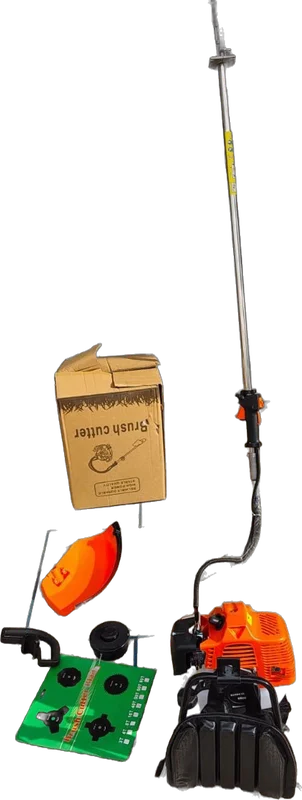
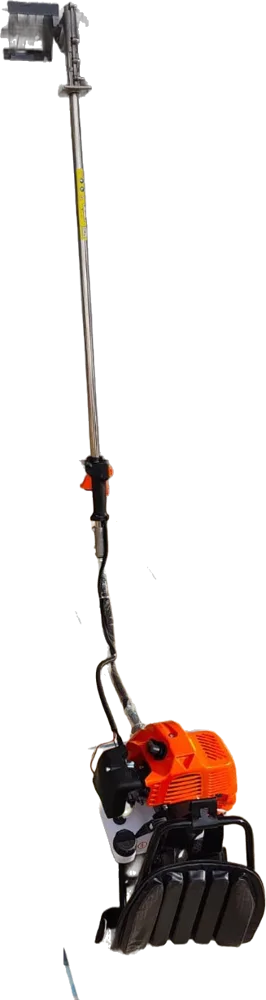
hachkrbal: kit is machine + tiller head + one toothed disc
Claude-Session: https://claude.ai/code/session_01Q9gj9fqZTD4U2Bkaj3WH21

diff --git a/index.html b/index.html
@@ -774,13 +774,13 @@ const P=[
    about:["عندك حشاشة؟ ما تحتاجش تشري كربال: ركّب هاد الرأس فبلاصة الديسك، وولّات الحشاشة ديالك كربال صغير كيقلّب التربة.","مزيان للتربة الخفيفة والمتوسطة، للجنانات وبين الشجر وفالحدائق."],
    faq:[["واش كيركب على الحشاشة ديالي؟","كيركب على أغلب الحشاشات. صيفط لينا تصويرة ديال الحشاشة ديالك فالواتساب ونأكدو ليك قبل ما نصيفطو."],["واش الثمن على جوج؟","لا، الثمن 549 درهم على رأس واحد (قطعة وحدة)."],["واش كيحرث الأرض الكبيرة؟","هو كربال صغير للجنانات والتربة الخفيفة والمتوسطة، ماشي للحرث الكبير."]]},
   {id:"hachkrbal",cat:"cut",price:1650,badge:"2 ف 1 · حشاشة + كربال",name:"حشاشة الفصة وكربال فنفس الوقت 52cc",hook:"ماكينة وحدة: كتحش وكتكربل",
-   lead:"آلة 2 ف 1 بمحرك 52cc كيخدم بالميلونج: حشاشة للفصة والربيع، وكتبدل الرأس وكتولي كربال صغير للجنانات. كتجي مع ديسك 40 سنة، الكربال وروليطة الخيط.",
+   lead:"آلة 2 ف 1 بمحرك 52cc كيخدم بالميلونج: حشاشة للفصة والربيع، وكتبدل الرأس وكتولي كربال صغير للجنانات. كتجي مع رأس الكربال وديسك بسنان.",
    imgs:["hachkrbal-1","hachkrbal-2","hachkrbal-3"],
-   bens:[["2 ف 1","حشاشة + كربال","tools"],["52cc","محرك قوي","bolt"],["كاملة","ديسك 40 سنة + روليطة","hand"]],
-   specs:[["المحرك","52cc · جوج أشواط"],["الوقود","ميلونج: بنزين مخلوط مع الزيت (Mélange)"],["كتجي معاها","رأس الكربال، ديسك 40 سنة، روليطة الخيط (Tête nylon)"],["الاستعمال","الحش، قص الربيع، والكربلة الخفيفة"]],
+   bens:[["2 ف 1","حشاشة + كربال","tools"],["52cc","محرك قوي","bolt"],["كتجي معاها","الكربال + ديسك بسنان","hand"]],
+   specs:[["المحرك","52cc · جوج أشواط"],["الوقود","ميلونج: بنزين مخلوط مع الزيت (Mélange)"],["كتجي معاها","رأس الكربال + ديسك واحد بسنان"],["الاستعمال","الحش، قص الربيع، والكربلة الخفيفة"]],
    uses:["حش الفصة","تنظيف الأراضي","الكربلة فالجنانات","الحدائق"],
-   about:["كتخدم بها حشاشة عادية بالديسك ولا بالروليطة، ومن بعد كتبدل الرأس وكتولي كربال صغير يقلّب ليك التربة فالجنان.","ماكينة وحدة بلاصة جوج، وبثمن مناسب."],
-   faq:[["واش الكربال قوي؟","هو كربال صغير للجنانات والتربة الخفيفة، ماشي للحرث الكبير."],["شنو البنزين؟","ميلونج: بنزين مخلوط مع زيت جوج أشواط."]]},
+   about:["كتخدم بها حشاشة عادية بالديسك بسنان، ومن بعد كتبدل الرأس وكتولي كربال صغير يقلّب ليك التربة فالجنان.","ماكينة وحدة بلاصة جوج، وبثمن مناسب."],
+   faq:[["شنو كيجي معاها؟","الماكينة + رأس الكربال + ديسك واحد بسنان."],["واش الكربال قوي؟","هو كربال صغير للجنانات والتربة الخفيفة، ماشي للحرث الكبير."],["شنو البنزين؟","ميلونج: بنزين مخلوط مع زيت جوج أشواط."]]},
   {adv:"ad-hachach4t",id:"hachach4t",cat:"cut",price:1200,badge:"إيصانص صيك · روليطة الخيط",name:"آلة قطع الأعشاب · إيصانص صيك",hook:"الربيع والشوك غلبوك؟ الحل عندنا",
    lead:"آلة قطع الأعشاب (Débroussailleuse) بمحرك 4 أشواط كيخدم بالإيصانص صيك: بنزين بوحدو بلا ما تخلط الزيت. اقتصادية، وكتجي مع روليطة الخيط (Tête nylon) والديسكات.",
    imgs:["hachach4t-1","hachach4t-2","hachach4t-3"],
